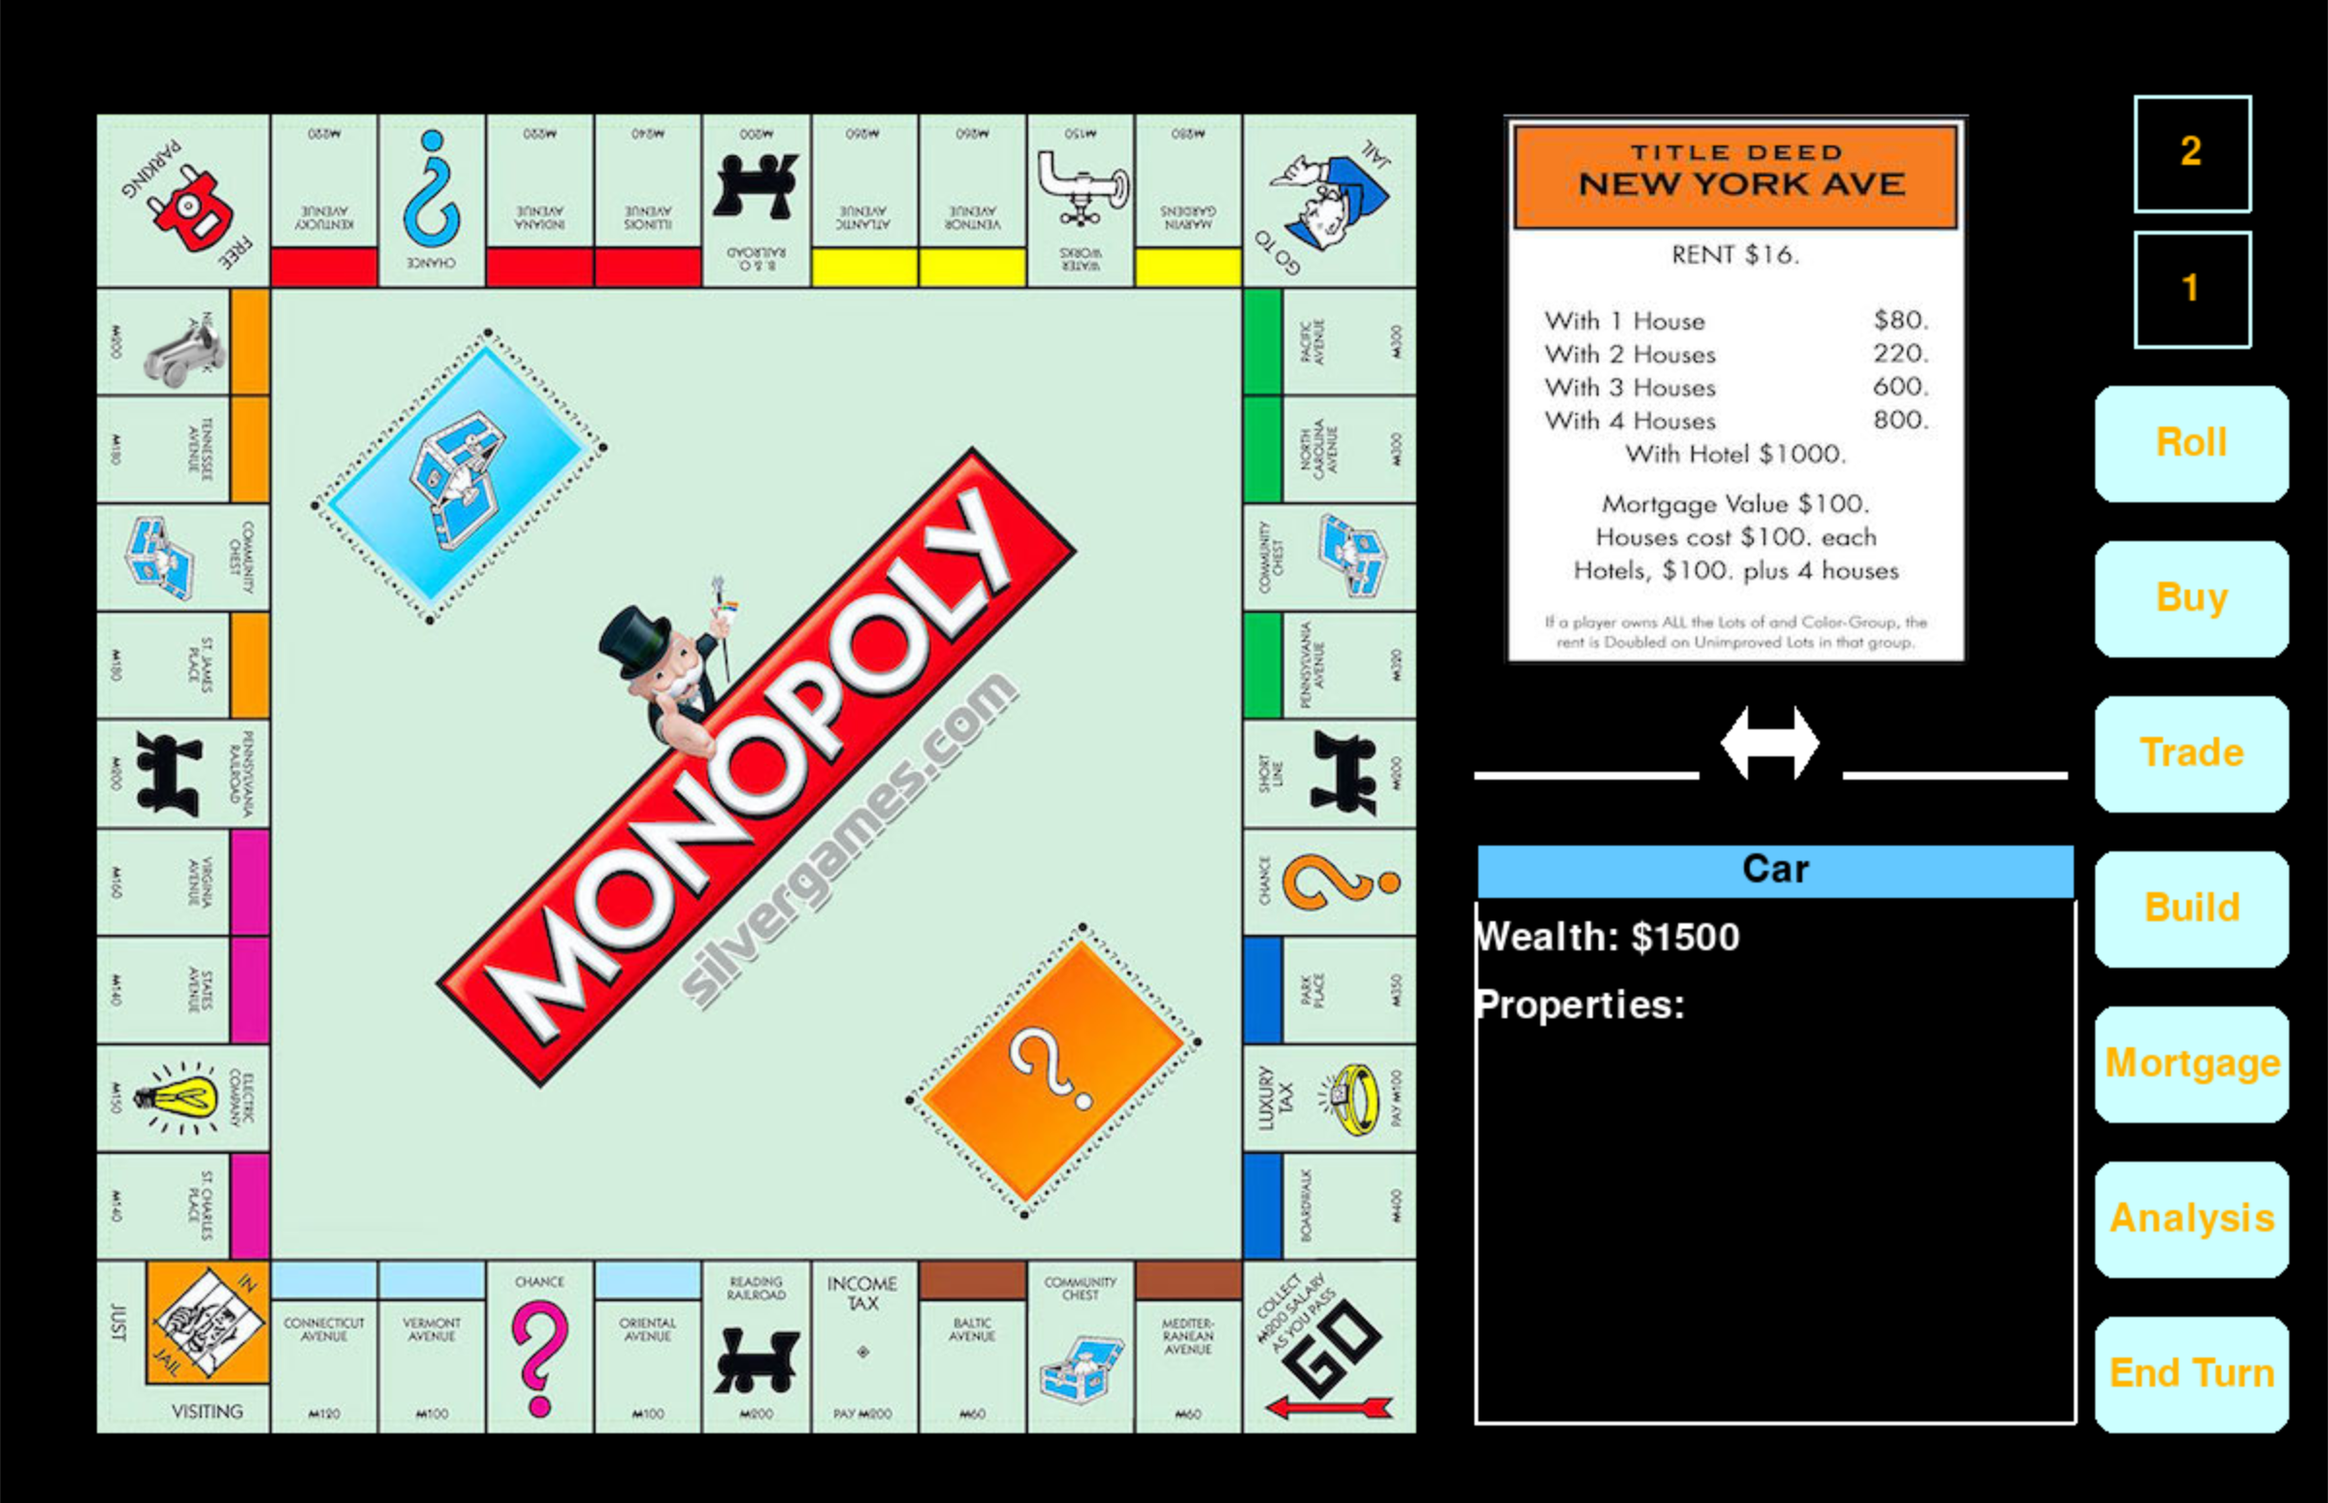
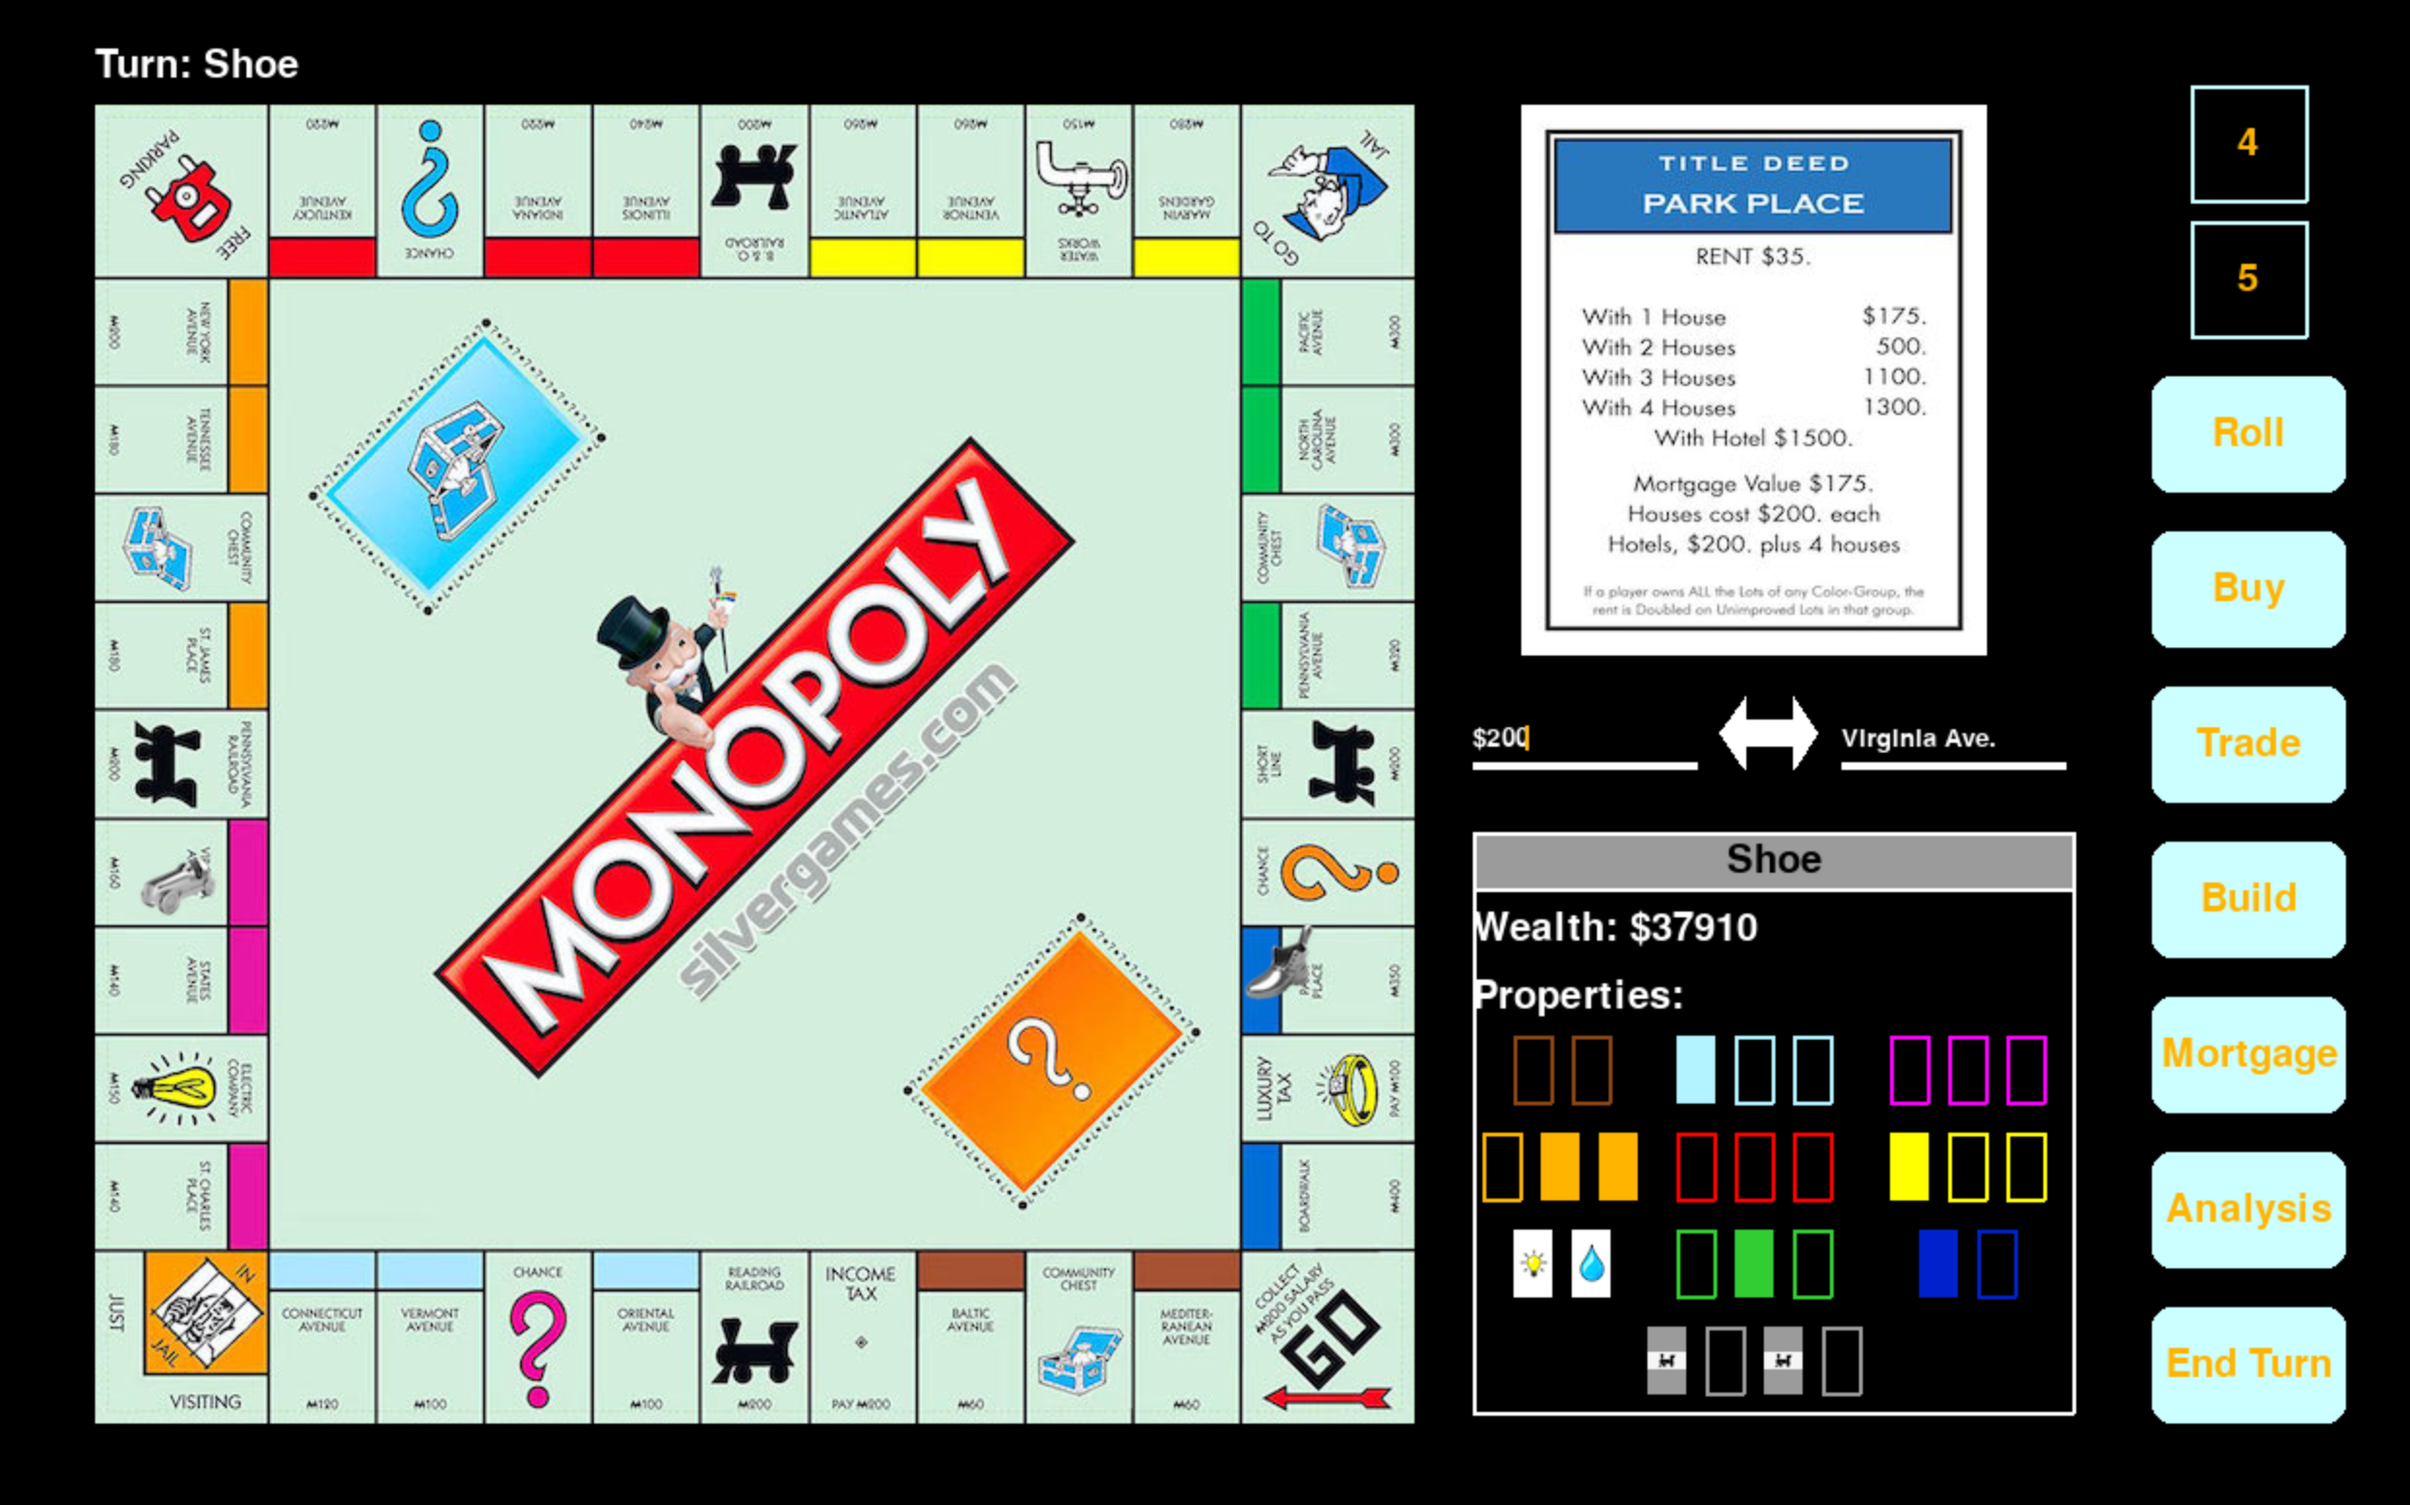
Upload progress screenshot

diff --git a/src/main.py b/src/main.py
@@ -89,7 +89,8 @@ class GameEngine:
         pass
     
     def check_player_pos(self):
-        pass
+        if car.get_position() == 30: # Jail
+            car.set_position(10, 100, 700)
     
     def set_dice_roll(self, dice_roll, double):
         self.dice_roll = dice_roll
@@ -104,6 +105,9 @@ class GameEngine:
     
     def roll_complete(self):
         return self.rollled
+    
+    def process_trade(self):
+        pass
     
 class Dice:
     """Represents the die within the monopoly game and handles both drawing and rolling the die
@@ -169,7 +173,6 @@ player_option = gui.OptionBox(760, 435, 310, 30, GREY, (100, 200, 255), FONT, ["
 
 car = Player("Car", 40000, START_X, START_Y)
 shoe = Player("Shoe", 40000, START_X, START_Y)
-
 die = Dice(pygame.Rect(1100+30, 50, 60, 60), pygame.Rect(1100+30, 120, 60, 60), BUTTON_COLOR, 30)
 game = GameEngine(2)
 
@@ -190,7 +193,15 @@ def draw_player_info(selected_option):
 def draw(selected_option):
     WINDOW.fill(BLACK)
 
-    gui.draw_text(WINDOW, "Turn: "+str(game.get_turn()), FONT, WHITE, 50, 30)
+    if game.get_turn() == 0:
+        gui.draw_text(WINDOW, "Turn: Car", FONT, WHITE, 50, 30)
+    elif game.get_turn() == 1:
+        gui.draw_text(WINDOW, "Turn: Shoe", FONT, WHITE, 50, 30)
+    elif game.get_turn() == 2:
+        gui.draw_text(WINDOW, "Turn: Ship", FONT, WHITE, 50, 30)
+    elif game.get_turn() == 3:
+        gui.draw_text(WINDOW, "Turn: Hat", FONT, WHITE, 50, 30)
+        
     WINDOW.blit(BOARD_IMAGE, board_rect)
     WINDOW.blit(CAR, (car.get_x(), car.get_y()))
     WINDOW.blit(SHOE, (shoe.get_x(), shoe.get_y()))

diff --git a/src/player.py b/src/player.py
@@ -97,6 +97,11 @@ class Player:
     def get_position(self):
         return self.position
 
+    def set_position(self, pos, x, y):
+        self.position = pos
+        self.x = x
+        self.y = y
+        
     def get_money(self):
         return self.money
 
